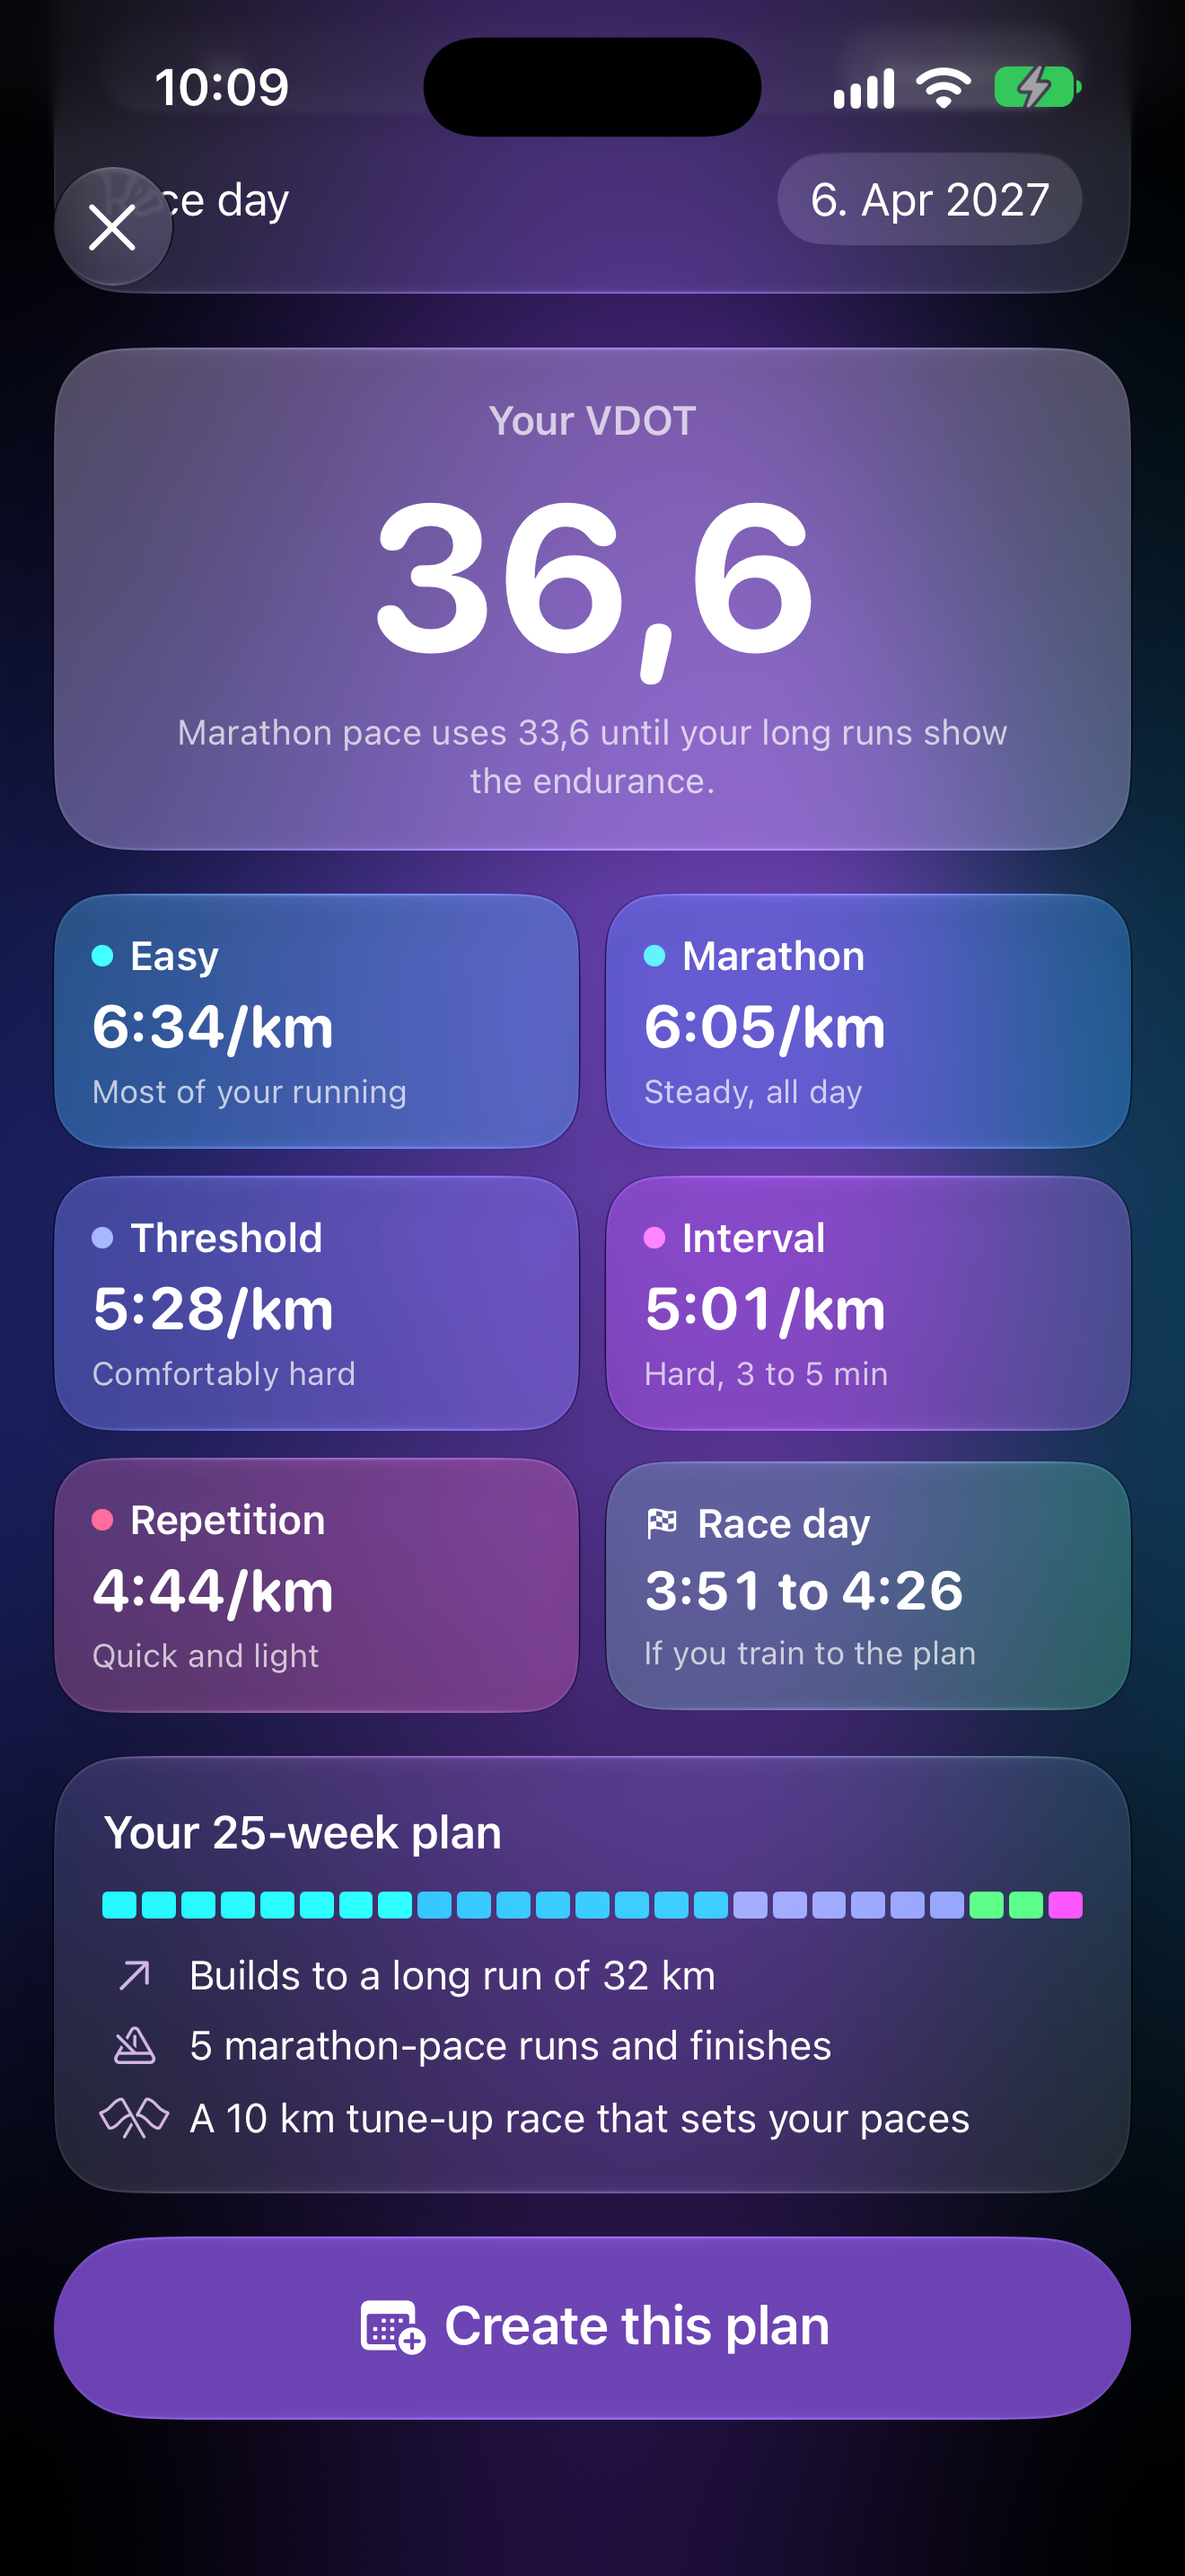
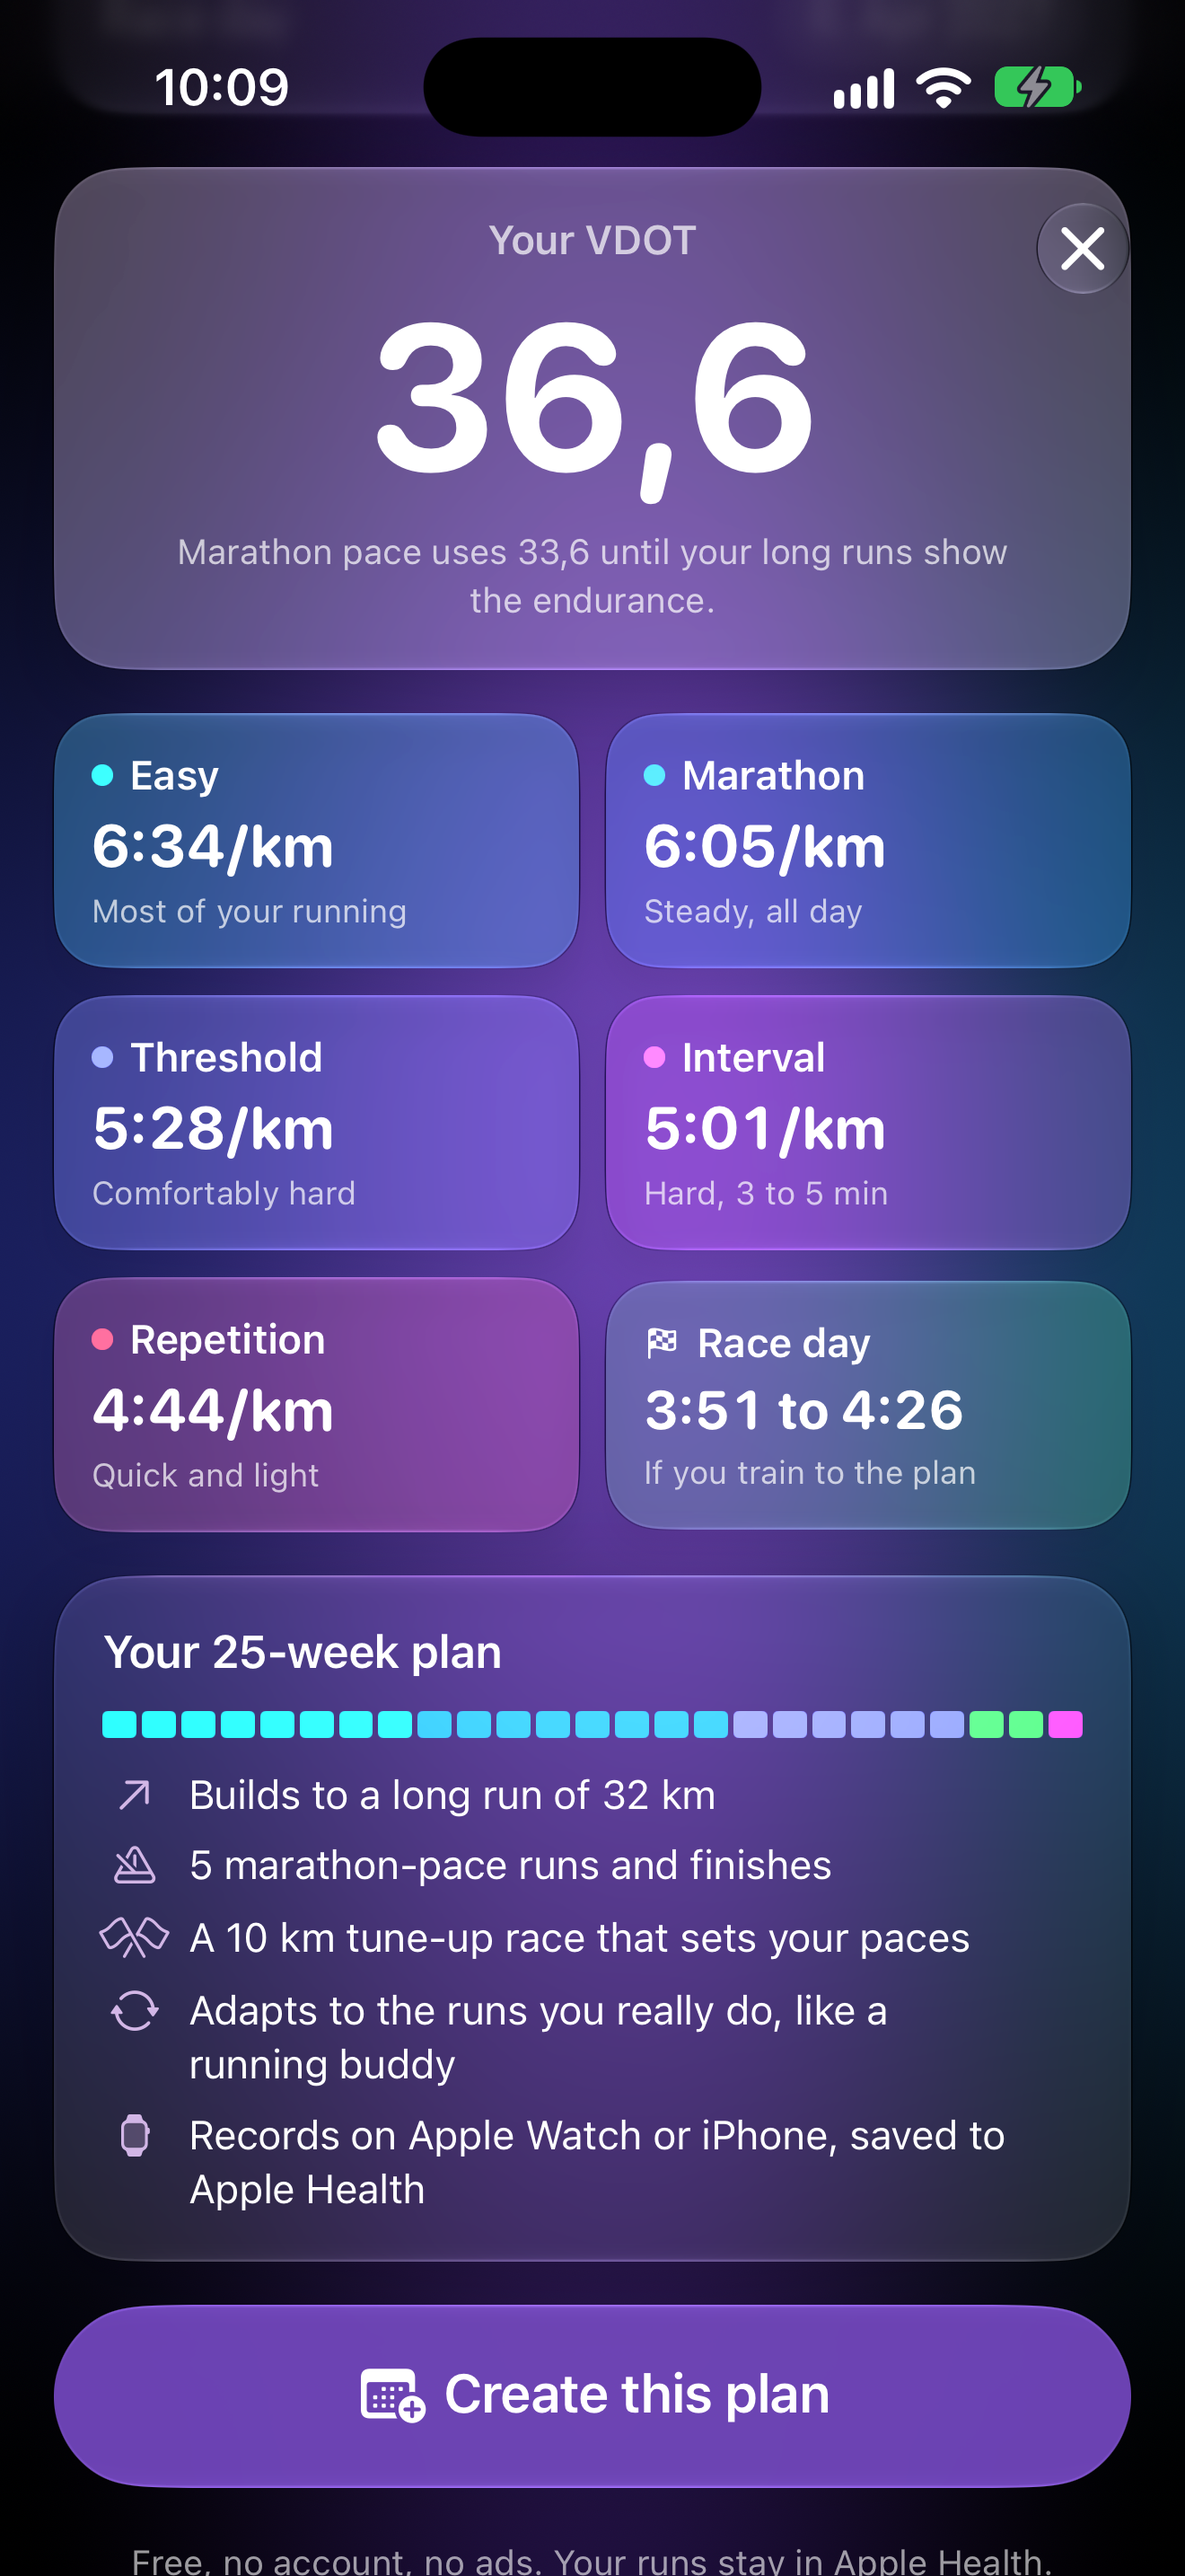
In-app pace calculator lays out exactly like the App Clip: same content, floating Close button

diff --git a/App-iOS/Views/PaceCalculatorView.swift b/App-iOS/Views/PaceCalculatorView.swift
@@ -75,7 +75,7 @@ struct PaceCalculatorView: View {
                                 .id("results")
                                 .transition(.opacity.combined(with: .move(edge: .bottom)))
                         }
-                        if isClip { footer }
+                        footer
                     }
                     .padding(.horizontal, 20)
                     .padding(.vertical, 24)
@@ -294,10 +294,8 @@ struct PaceCalculatorView: View {
                 if let tuneUp, let s = tuneUp.structure {
                     bullet("flag.2.crossed", "A \(Format.distanceCompact(s.workMeters)) tune-up race that sets your paces")
                 }
-                if isClip {
-                    bullet("arrow.triangle.2.circlepath", "Adapts to the runs you really do, like a running buddy")
-                    bullet("applewatch", "Records on Apple Watch or iPhone, saved to Apple Health")
-                }
+                bullet("arrow.triangle.2.circlepath", "Adapts to the runs you really do, like a running buddy")
+                bullet("applewatch", "Records on Apple Watch or iPhone, saved to Apple Health")
             }
             .font(.subheadline)
         }
@@ -319,7 +317,7 @@ struct PaceCalculatorView: View {
             .font(.footnote)
             .foregroundStyle(.white.opacity(0.6))
             .multilineTextAlignment(.center)
-            .padding(.bottom, 80)   // room for the App Store overlay
+            .padding(.bottom, isClip ? 80 : 0)   // room for the App Store overlay
     }
 
     private func wheel(_ value: Binding<Int>, range: Range<Int>, unit: String, label: String) -> some View {

diff --git a/App-iOS/Views/PaceCalculatorSheet.swift b/App-iOS/Views/PaceCalculatorSheet.swift
@@ -1,19 +1,23 @@
 import SwiftUI
 
-/// The App Clip's pace calculator in the app, as a sheet with a Close button.
+/// The App Clip's pace calculator in the app, as a sheet. A floating Close button
+/// instead of a navigation bar, so it lays out exactly as in the clip.
 struct PaceCalculatorSheet: View {
     let action: PaceCalculatorView.Action
     @Environment(\.dismiss) private var dismiss
 
     var body: some View {
-        NavigationStack {
-            PaceCalculatorView(action: action)
-                .toolbar {
-                    ToolbarItem(placement: .cancellationAction) {
-                        Button("Close", systemImage: "xmark") { dismiss() }
-                    }
-                }
-        }
-        .preferredColorScheme(.dark)
+        PaceCalculatorView(action: action)
+            .overlay(alignment: .topTrailing) {
+                Button("Close", systemImage: "xmark") { dismiss() }
+                    .labelStyle(.iconOnly)
+                    .font(.title3.weight(.semibold))
+                    .frame(width: 44, height: 44)
+                    .buttonStyle(.glass)
+                    .buttonBorderShape(.circle)
+                    .padding(.trailing, 16)
+                    .padding(.top, 8)
+            }
+            .preferredColorScheme(.dark)
     }
 }
